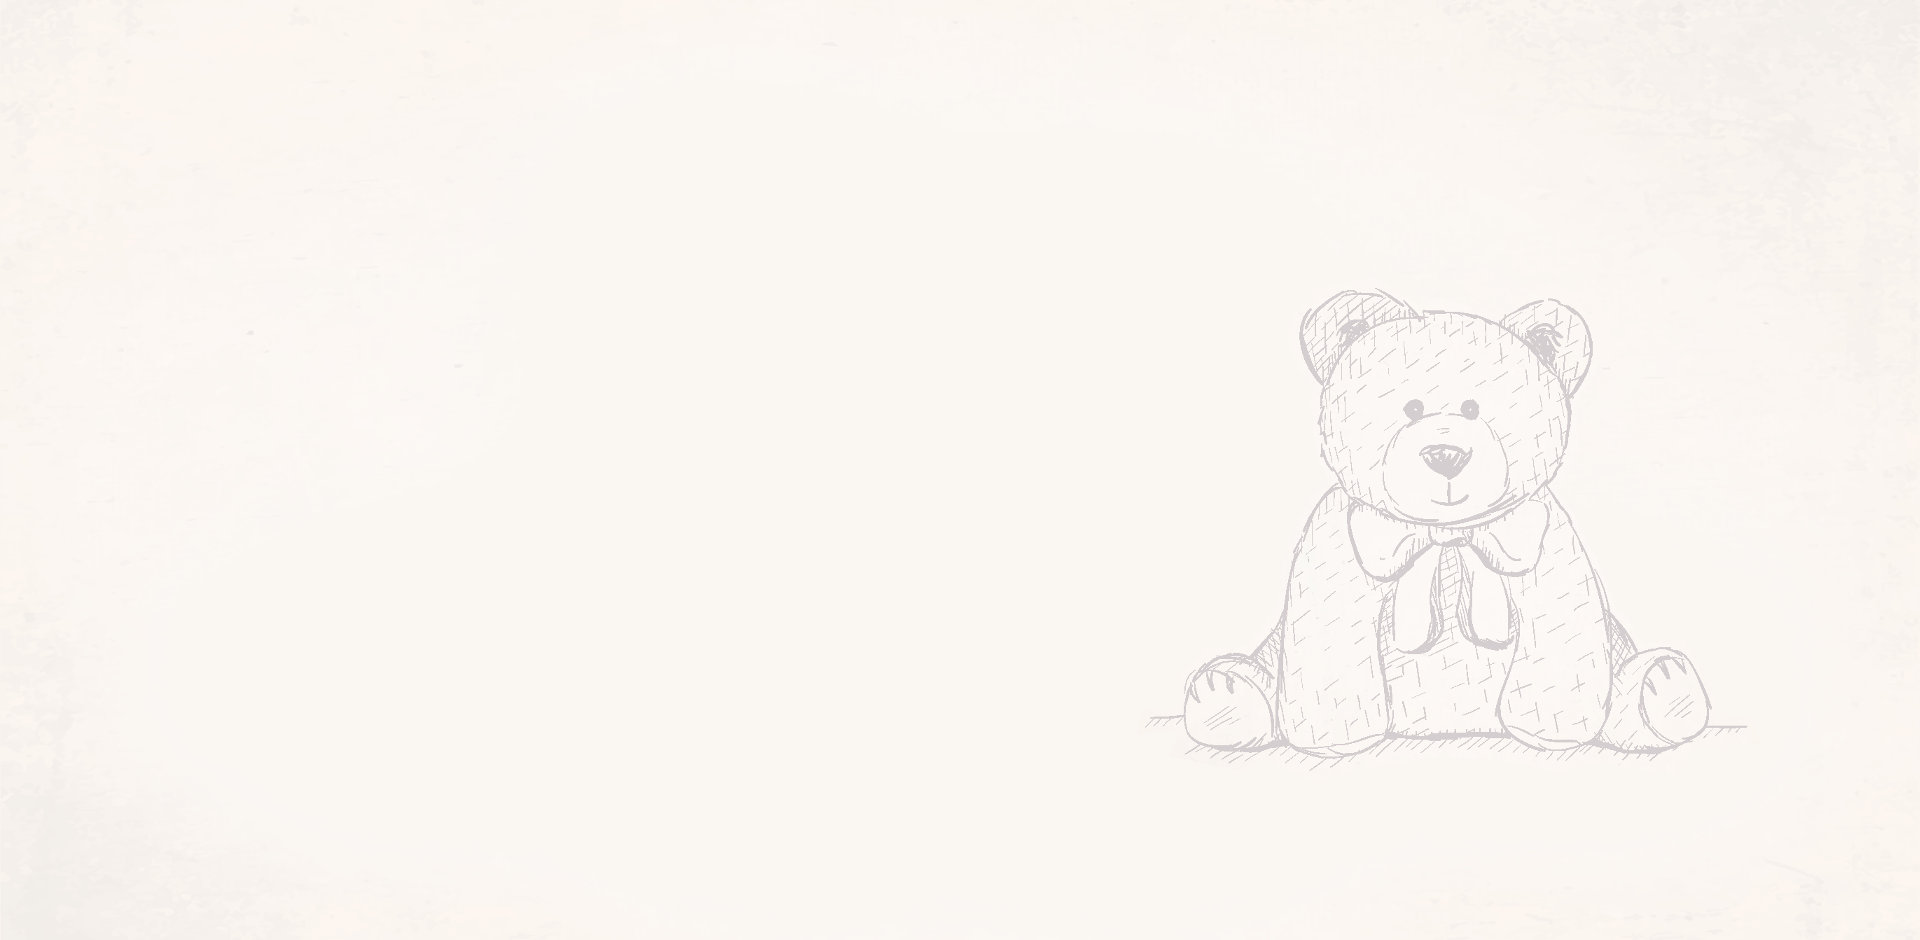
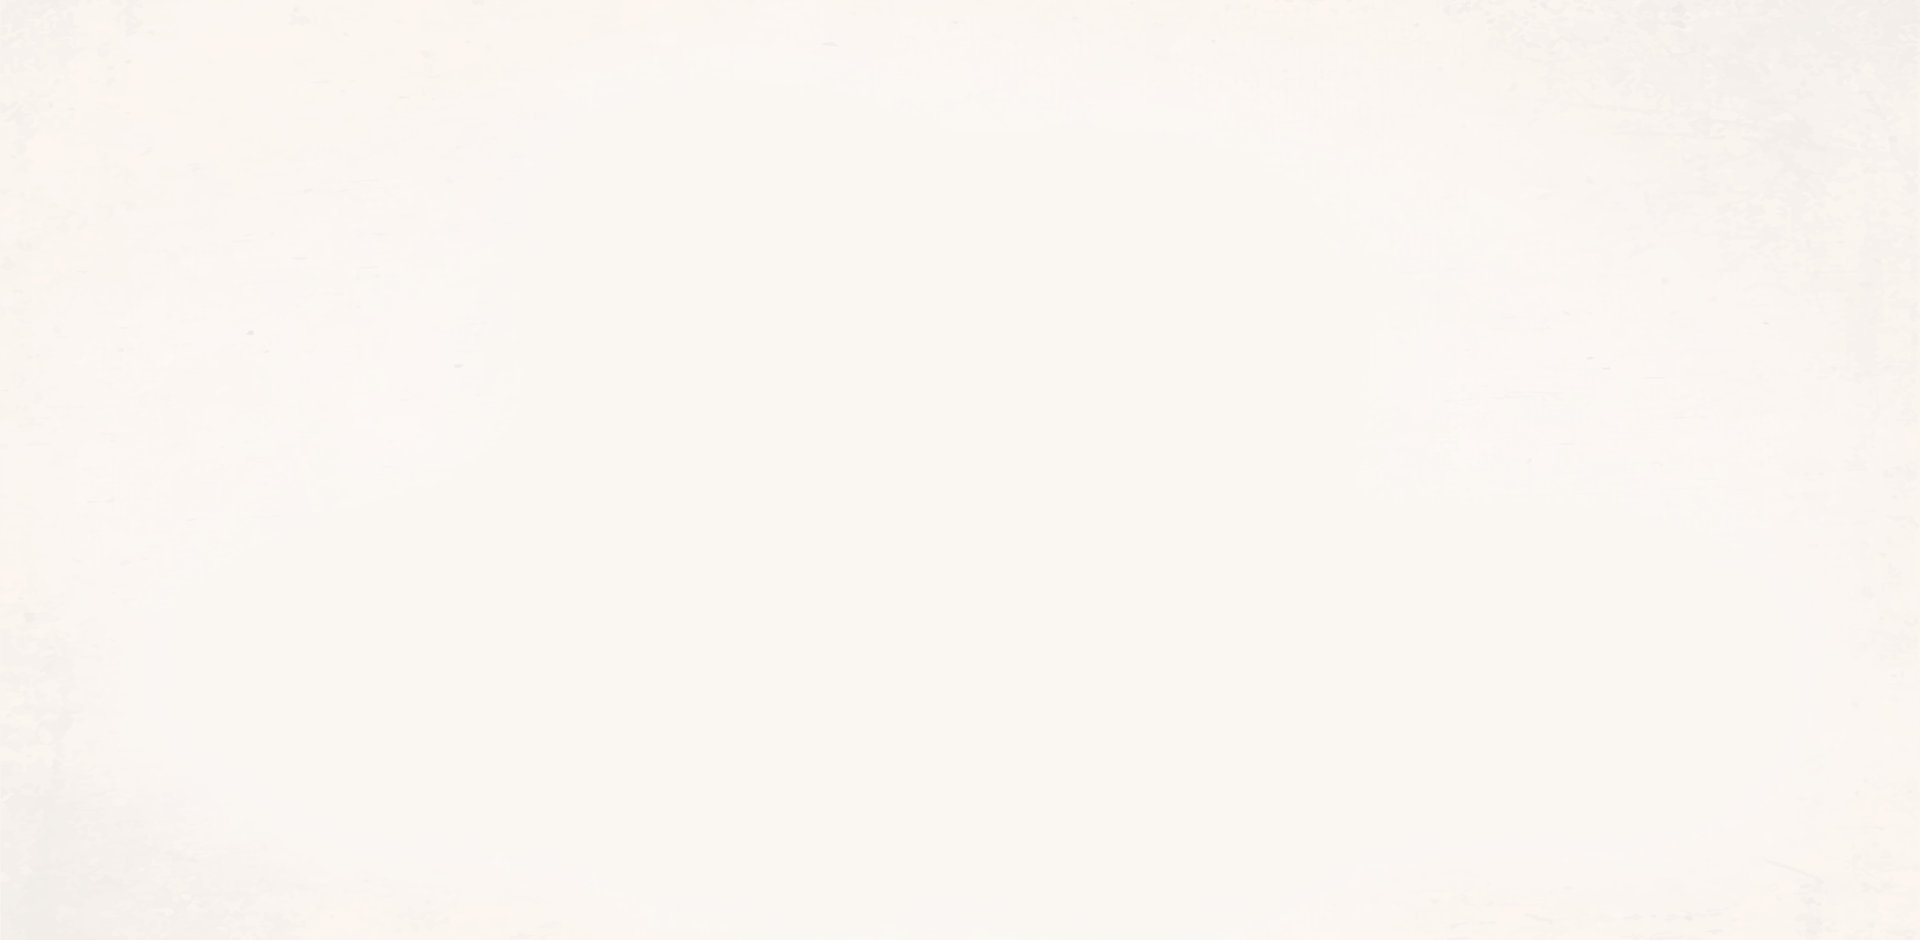
changed layout to be more responsive, still much left to do, though

diff --git a/index.html b/index.html
@@ -6,6 +6,7 @@
 		<title>TeddyBear Studio</title>
 		<meta name="description" content="TeddyBear Studio">
 		<meta name="author" content="Alexander Sopov">
+		<meta name="viewport" content="width=device-width, initial-scale=1,maximum-scale=1, user-scalable=no">
 
 		<link rel="stylesheet" href="css/bootstrap.min.css">
 		<link rel="stylesheet" href="css/style.css">
@@ -22,38 +23,42 @@
 	<body>
 	<div class="background"></div>
 	<!-- HEADER -->
-	<div class="row screen-and-steel fullscreen">
-		<img src="img/teddy-bg-1-1080.jpg" class="img-bg">
+	<div class="screen-and-steel fullscreen">
+		<img src="img/teddy-bg-1-1080.jpg" class="fullscreen-bg-img">
 		<div class="container">
 			<div class="row">
-				<div class="col-xs-12">
-					<h1>
-						TeddyBear Studio
-					</h1>
-					<h3>
-						Fullstack Web Developers
-					</h3>
+				<DIV class="col-lg-7">
+					<div class="col-xs-12">
+						<h1>
+							TeddyBear Studio
+						</h1>
+						<h3>
+							Fullstack Web Developers
+						</h3>
+					</div>
+					<div class="col-lg-8 text-justify border">
+						
+						<p>
+							Do you need a developer but don't have the time to find one? Don't worry, there's no need to go through the hassle and hope for the best.
+						</p>
+						<p>	
+							Instead, give TeddyBear a call.
+						</p>
+						<p>
+							- We'll help you out in no time.
+						</p>
+					</div>
+					<div class="col-lg-12 navbar">
+						<a href="#">What We Do</a>
+						<a href="#">What we promise to deliver</a>
+						<a href="#">Who we work with</a>
+						<a href="#">Get in touch</a>
+					</div>
+				</DIV>
+				<div class="col-lg-5">
+					<img src="img/teddy-1.png">
 				</div>
-				<div class="col-xs-6 text-justify border">
 					
-					<p>
-						Do you need a developer but don't have the time to find one? Don't worry, there's no need to go through the hassle and hope for the best.
-					</p>
-					<p>	
-						Instead, give TeddyBear a call.
-					</p>
-					<p>
-						- We'll help you out in no time.
-					</p>
-				</div>	
-			</div>
-			<div class="row">
-				<div class="col-xs-12 navbar">
-					<a href="#">What We Do</a>
-					<a href="#">What we promise to deliver</a>
-					<a href="#">Who we work with</a>
-					<a href="#">Get in touch</a>
-				</div>
 			</div>
 		</div>
 	</div>

diff --git a/css/style.css b/css/style.css
@@ -13,13 +13,7 @@
 	z-index: -99;
 }
 
-.img-bg{
-	width:100%;
-	margin:0px;
-	position:absolute;
-	top:0px;
-	left:0px;
-}
+
 
 .screen-and-steel {
 	background-color:#C5C1C0; /*SCREEN*/
@@ -46,9 +40,25 @@
 }
 
 .fullscreen{
-	height:800px;
-	padding:300px;
-	margin-bottom:200px;
+	height:100%;
+	width:100%;
+	margin-bottom:150px;
+}
+.fullscreen-bg-img{
+	margin:0px;
+	width:100%;
+	height:100%;
+	position:absolute;
+	top:0px;
+	left:0px;
+}
+.fullscreen .container{
+	margin-top:180px;
+	width:80%;
+}
+
+.fullscreen h1{
+	margin-top:140px;
 }
 
 .fullscreen p, .fullscreen h3{
@@ -58,3 +68,4 @@
 .navbar{
 	margin-top:100px;
 }
+
